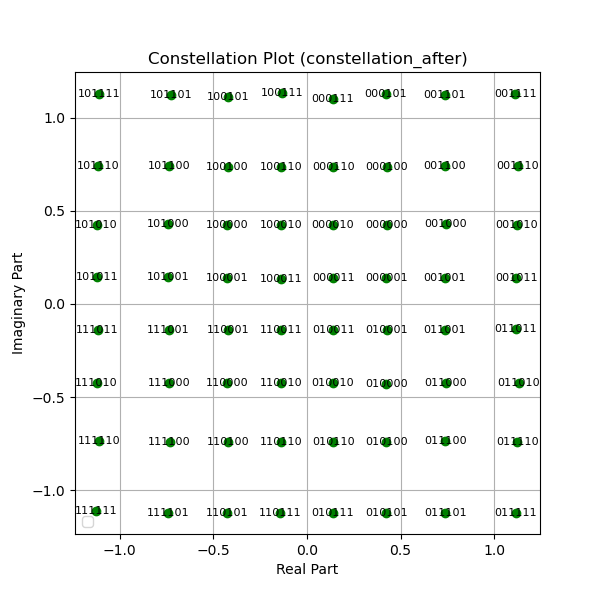
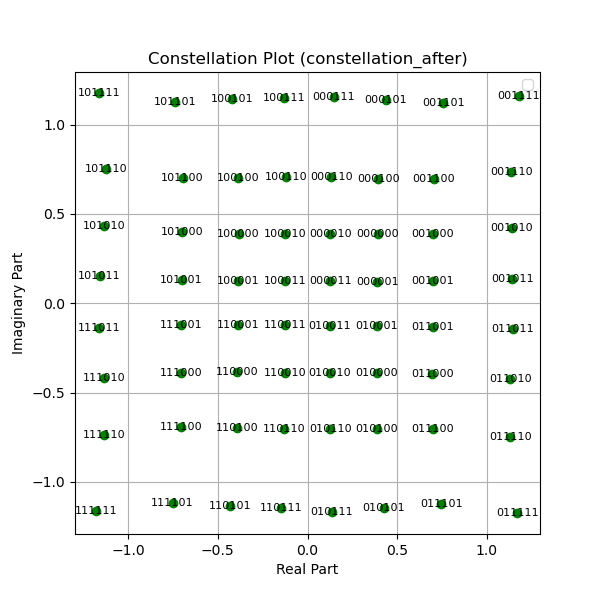
BLER for NN new model p = 1

diff --git a/Sionna/End_2_end/ConventionalNN.py b/Sionna/End_2_end/ConventionalNN.py
@@ -64,7 +64,7 @@ ebno_db_max = 18.0
 num_bits_per_symbol = 6 # Baseline is 64-QAM
 #modulation_order = 2**num_bits_per_symbol
 coderate = 0.75 #0.75 # Coderate for the outer code
-n = 4092 #4098 #4096 Codeword length [bit]. Must be a multiple of num_bits_per_symbol
+n = 4092 # Must be a multiple of num_bits_per_symbol
 num_symbols_per_codeword = n//num_bits_per_symbol # Number of modulated baseband symbols per codeword
 k = int(n*coderate) # Number of information bits per codeword
 num_iter = 50 #number of BP iterations 
@@ -77,7 +77,7 @@ samples_per_symbol = 4 # Number of samples per symbol, i.e., the oversampling fa
 BATCH_SIZE = tf.constant(128, tf.int32) # Training batch size#10 #how many examples are processed by sionna in parallel 
 lenght_of_block = int(num_symbols_per_codeword)
 #Name to store weights 
-model_weights_path = "weights-neural-demapper-Conventional_RAPP"
+model_weights_path = "weights-neural-demapper-Conventional"
 ##############################################
 #Evaluation metrics 
 ##############################################
@@ -182,12 +182,7 @@ class End2EndSystem(Model): # Inherits from Keras Model
         self.demapper = NeuralDemapper() # Intantiate the NeuralDemapper custom layer as any other  
         #self.bce = tf.keras.losses.BinaryCrossentropy(from_logits=True) # Loss function
 
-        # Non linear noise - Rapp model 
-        ########################################
-        self.RappModel = RappPowerAmplifier(
-            saturation_amplitude = 1,
-            smoothness_factor = 1
-        )
+       
         self.training = training
 
 
@@ -205,10 +200,10 @@ class End2EndSystem(Model): # Inherits from Keras Model
              ########################################
             # # Non linear noise - Rapp model 
             # ########################################
-            # self.RappModel = RappPowerAmplifier(
-            #     saturation_amplitude = 1,
-            #     smoothness_factor = 1
-            # )
+            self.RappModel = RappPowerAmplifier(
+                saturation_amplitude = 1,
+                smoothness_factor = 1
+            )
             self.deinterlever = Deinterleaver(self.interleaver) #pass interlever instance
             self.decoder = LDPC5GDecoder(
                 encoder=self.encoder,       # Pass encoder instance
@@ -268,10 +263,10 @@ class End2EndSystem(Model): # Inherits from Keras Model
         x_rrcf = self.rrcf(x_us)#, padding = "same")
 
           ############################
-        #if not self.training:  # Apply Rapp model only in inference mode
-           # Rapp noise addition 
-        ############################
-        x_rrcf = self.RappModel(x_rrcf)
+        if not self.training:  # Apply Rapp model only in inference mode
+            #Rapp noise addition 
+            x_rrcf = self.RappModel(x_rrcf)
+
         ############################
         #Channel:
         ############################
@@ -336,7 +331,7 @@ def conventional_training(model_train):
 
     # Training loop
     for i in range(NUM_TRAINING_ITERATIONS):
-        # Sampling a batch of SNRs
+        # Sampling a batch of SNRs (generate random SNRs within a specific range( uniformly distributed))
         ebno_db = tf.random.uniform(shape=[BATCH_SIZE], minval=ebno_db_min, maxval=ebno_db_max)
     
         # Forward pass
@@ -359,32 +354,32 @@ def save_weights(model_train, model_weights_path):
     with open(model_weights_path, 'wb') as f:
         pickle.dump(weights, f)
 #####################################
-# Run training 
-#####################################
-# Instantiating the end-to-end model for training
-model_train = End2EndSystem(training=True)
-# Extract and save constellation data before training
-constellation_data['constellation_before']= model_train.constellation.points.numpy()
-# Track time for model training
-training_start_time = time.time()
-conventional_training(model_train)
-# Save weights
-save_weights(model_train, model_weights_path)
-# Extract and save constellation data after training
-constellation_data['constellation_after'] = model_train.constellation.points.numpy()
-# End time for training
-training_end_time = time.time()
+# # Run training 
+# # #####################################
+# # Instantiating the end-to-end model for training
+# model_train = End2EndSystem(training=True)
+# # Extract and save constellation data before training
+# constellation_data['constellation_before']= model_train.constellation.points.numpy()
+# # Track time for model training
+# training_start_time = time.time()
+# conventional_training(model_train)
+# # Save weights
+# save_weights(model_train, model_weights_path)
+# # Extract and save constellation data after training
+# constellation_data['constellation_after'] = model_train.constellation.points.numpy()
+# # End time for training
+# training_end_time = time.time()
 
 
 
-# Save constellation data to a .pkl file
-with open("constellation_dataNN_RAPP_included.pkl", "wb") as f:
-    pickle.dump(constellation_data, f)
+# # Save constellation data to a .pkl file
+# with open("constellation_dataNN_RAPP_included.pkl", "wb") as f:
+#     pickle.dump(constellation_data, f)
 
 
-# Save loss function values to a file
-with open("loss_valuesConv_RAPP.pkl","wb") as f:
-    pickle.dump(loss_values,f)
+# # Save loss function values to a file
+# with open("loss_valuesConv_RAPP.pkl","wb") as f:
+#     pickle.dump(loss_values,f)
 ##################################################
 #model evaluation 
 ##################################################
@@ -412,13 +407,13 @@ load_weights(model, model_weights_path)
 ###################################################
 
 ber_NN, bler_NN = sim_ber(
-    model, ebno_dbs, batch_size=BATCH_SIZE, num_target_block_errors=1000, max_mc_iter=2000,soft_estimates=True) #was used 1000 and 10000
+    model, ebno_dbs, batch_size=BATCH_SIZE, num_target_block_errors=1000, max_mc_iter=1000,soft_estimates=True) #was used 1000 and 10000
     #soft estimates added for demapping 
 results['BLER']['autoencoder-NN'] = bler_NN.numpy()
 results['BER']['autoencoder-NN'] = ber_NN.numpy()
 
 # Save the results to a file (optional)
-with open("bler_resultsNN_conv_RAPP.pkl", 'wb') as f:
+with open("bler_resultsNN_conv_P=1.pkl", 'wb') as f:
     pickle.dump((results), f)
 
 
@@ -432,8 +427,8 @@ with open("bler_resultsNN_conv_RAPP.pkl", 'wb') as f:
 # uncoded_bits, decoded_bits, x_rrcf, x, y_ds = model(BATCH_SIZE, selected_ebno_dbs)
 # selected_ebno_dbs_value = selected_ebno_dbs.numpy()  # Convert tensor to a Python float
 # x_rrcf_signals[selected_ebno_dbs_value] = x_rrcf
-# bits_after_mapper[selected_ebno_dbs_value] = x
-# bits_before_demapper[selected_ebno_dbs_value] = y_ds
+# # bits_after_mapper[selected_ebno_dbs_value] = x
+# # bits_before_demapper[selected_ebno_dbs_value] = y_ds
 # print("All selected Eb/N0 evaluations completed.")
 
 
@@ -463,11 +458,11 @@ with open("bler_resultsNN_conv_RAPP.pkl", 'wb') as f:
 
 
 
-# Time calculations: 
-# Calculate and print total execution time
-end_time = time.time()
-total_execution_time = end_time - start_time
-training_execution_time = training_end_time - training_start_time
+# # Time calculations: 
+# # Calculate and print total execution time
+# end_time = time.time()
+# total_execution_time = end_time - start_time
+# training_execution_time = training_end_time - training_start_time
 
-print(f"\nTotal Execution Time: {total_execution_time:.2f} seconds")
-print(f"Training Execution Time: {training_execution_time:.2f} seconds")
+# print(f"\nTotal Execution Time: {total_execution_time:.2f} seconds")
+# print(f"Training Execution Time: {training_execution_time:.2f} seconds")

diff --git a/Sionna/End_2_end/Basiline.py b/Sionna/End_2_end/Basiline.py
@@ -217,7 +217,7 @@ class Baseline(Model): # Inherits from Keras Model
         ########################################
         self.RappModel = RappPowerAmplifier(
             saturation_amplitude = 1,
-            smoothness_factor = 3
+            smoothness_factor = 1
         )
 
     
@@ -376,46 +376,46 @@ model = Baseline()
 # Specific Eb/N0 values for which signals are collected
 selected_ebno_dbs = [9]  # Adjust as needed
 # Evaluate model and collect signals
-for ebno_db in selected_ebno_dbs:
-    # Forward pass through the model
-    print(f"Starting evaluation for Eb/N0 = {ebno_db} dB...")  # Print current Eb/N0
-    uncoded_bits, decoded_bits, x_rrcf, x, y_ds = model(BATCH_SIZE, ebno_db)
+# for ebno_db in selected_ebno_dbs:
+#     # Forward pass through the model
+#     print(f"Starting evaluation for Eb/N0 = {ebno_db} dB...")  # Print current Eb/N0
+#     uncoded_bits, decoded_bits, x_rrcf, x, y_ds = model(BATCH_SIZE, ebno_db)
     
-    # Save the `x_rrcf` signal (post-PAPR enforcement)
-    # Assuming `x_rrcf` is stored in the model during the forward pass
-    x_rrcf_signals[ebno_db] = x_rrcf  # Add an attribute to store `x_rrcf` in the model
-    #x_rrcf_Rapp_signals[ebno_db] = x_rrcf_Rapp
-    bits_after_mapper[ebno_db] = x
-    bits_before_demapper[ebno_db] = y_ds
+#     # Save the `x_rrcf` signal (post-PAPR enforcement)
+#     # Assuming `x_rrcf` is stored in the model during the forward pass
+#     x_rrcf_signals[ebno_db] = x_rrcf  # Add an attribute to store `x_rrcf` in the model
+#     #x_rrcf_Rapp_signals[ebno_db] = x_rrcf_Rapp
+#     bits_after_mapper[ebno_db] = x
+#     bits_before_demapper[ebno_db] = y_ds
 
 
-print("All selected Eb/N0 evaluations completed.")
-# Extract and save constellation data after training
-constellation_baseline['constellation_after'] = model.constellation.points.numpy()
+# print("All selected Eb/N0 evaluations completed.")
+# # Extract and save constellation data after training
+# constellation_baseline['constellation_after'] = model.constellation.points.numpy()
 
-# Save constellation data to a .pkl file
-with open("constellation_data_QAM64.pkl", "wb") as f:
-    pickle.dump(constellation_baseline, f)
-
-
+# # Save constellation data to a .pkl file
+# with open("constellation_data_QAM64.pkl", "wb") as f:
+#     pickle.dump(constellation_baseline, f)
 
 
-# ber_NN, bler_NN = sim_ber(
-#     model, ebno_dbs, batch_size=BATCH_SIZE, num_target_block_errors=1000, max_mc_iter=2000,soft_estimates=True) #was used 1000 and 10000
-#     #soft estimates added for demapping 
-# results_baseline['BLER']['baseline'] = bler_NN.numpy()
-# results_baseline['BER']['baseline'] = ber_NN.numpy()
-
-# # Save the results to a file (optional)
-# with open("bler_results_baseline.pkl", 'wb') as f:
-#     pickle.dump(results_baseline, f)
 
 
-# Save the x_rrcf signals to a file (as NumPy or TF tensors)
-signal_file = "x_rrcf_signals_baseline_no_imp.pkl"
-with open(signal_file, "wb") as f:
-    x_rrcf_numpy = {ebno_db: x.numpy() for ebno_db, x in x_rrcf_signals.items()}  # Convert to NumPy for storage
-    pickle.dump(x_rrcf_numpy, f)
+ber_NN, bler_NN = sim_ber(
+    model, ebno_dbs, batch_size=BATCH_SIZE, num_target_block_errors=1, max_mc_iter=1,soft_estimates=True) #was used 1000 and 10000
+    #soft estimates added for demapping 
+results_baseline['BLER']['baseline'] = bler_NN.numpy()
+results_baseline['BER']['baseline'] = ber_NN.numpy()
+
+# Save the results to a file (optional)
+with open("bler_results_baseline.pkl", 'wb') as f:
+    pickle.dump(results_baseline, f)
+
+
+# # Save the x_rrcf signals to a file (as NumPy or TF tensors)
+# signal_file = "x_rrcf_signals_baseline_no_imp.pkl"
+# with open(signal_file, "wb") as f:
+#     x_rrcf_numpy = {ebno_db: x.numpy() for ebno_db, x in x_rrcf_signals.items()}  # Convert to NumPy for storage
+#     pickle.dump(x_rrcf_numpy, f)
 
 
 # signal_Rappfile = "x_rrcf_Rapp.pkl"

diff --git a/Sionna/End_2_end/CDF_plot.py b/Sionna/End_2_end/CDF_plot.py
@@ -76,8 +76,9 @@ def compute_cdf(signal):
         x (numpy array): Sorted signal values.
         cdf (numpy array): CDF corresponding to the sorted values.
     """
-    # Flatten and sort the signal
+    # Flatten and sort the signal, convert from 2D to 1D
     flattened_signal = signal.flatten()
+    # sort in the ascending ordr 
     x = np.sort(flattened_signal)
     
     # Compute the CDF
@@ -85,10 +86,7 @@ def compute_cdf(signal):
     return x, cdf
 
 
-signal_labels = [
-    "E2E no impairment", "E2E p=1", "E2E p=2", "E2E p=3",
-    "BL no impairment", "BL p=1", "BL p=2", "BL p=3"
-]
+
 
 signals = {
     "E2E no impairment":NNloaded_signals[9],
@@ -106,12 +104,21 @@ plt.figure(figsize=(10, 6))
 
 for label, signal in signals.items():
     # Compute the magnitude of the signal (complex number)
-    magnitude_signal = np.abs(signal)
-    x, cdf = compute_cdf(magnitude_signal)
+    #magnitude_signal = np.abs(signal)
+    # Compute the instantaneous power (|signal|^2)
+    instantaneous_power = np.abs(signal)**2
+     # Compute the average power
+    average_power = np.mean(instantaneous_power)
+    # Normalize instantaneous power by average power
+    normalized_power = instantaneous_power / average_power
+
+    x, cdf = compute_cdf(normalized_power)
     plt.plot(x, cdf, label=label)
 
+
 # Add labels and title
-plt.xlabel("Signal Values")
+
+plt.xlabel("Instantaneous Power / Average Power")
 plt.ylabel("CDF")
 plt.title("CDFs for Multiple Signals")
 plt.grid()

diff --git a/Sionna/End_2_end/Graphs.py b/Sionna/End_2_end/Graphs.py
@@ -354,10 +354,10 @@ plot_ber_bler("bler_resultsNN_conv_no_imp.pkl","bler_results_baseline_correct_1.
 # #plot_ber_bler_NN("bler_results.pkl")
 
 # Plot the constellation before training
-plot_constellation("constellation_dataNN.pkl", stage="constellation_before", num_bits_per_symbol=6)
+plot_constellation("constellation_dataNN_RAPP_included.pkl", stage="constellation_before", num_bits_per_symbol=6)
 
 # Plot the constellation after training
-plot_constellation("constellation_dataNN.pkl", stage="constellation_after", num_bits_per_symbol=6)
+plot_constellation("constellation_dataNN_RAPP_included.pkl", stage="constellation_after", num_bits_per_symbol=6)
 
 # # Plot baseline constellation
 # #plot_constellation_baseline("constellation_baseline.pkl")

diff --git a/Sionna/End_2_end/CCDF_calc.py b/Sionna/End_2_end/CCDF_calc.py
@@ -217,18 +217,7 @@ for signals, label in zip(signal_sets, signal_labels):
     plt.plot(thresholds_db, ccdf.numpy(), label=label)
 
 
-# # Customize the plot
-# plt.xlabel("Normalized Power (dB)", fontsize=12)
-# plt.ylabel("CCDF (Probability)", fontsize=12)
-# plt.title("CCDF of Normalized Power ", fontsize=14)
-# plt.yscale("log")  # Logarithmic scale for the CCDF
-# plt.grid(True, which="both", linestyle="--", linewidth=0.5)
-# plt.legend()
-# plt.tight_layout()
-# plt.savefig("CCDF_Plot",dpi =300)
-# plt.xlim(1,8)
-# plt.ylim(10e-6)
-# plt.show()
+
 
 
 # Customize the plot
